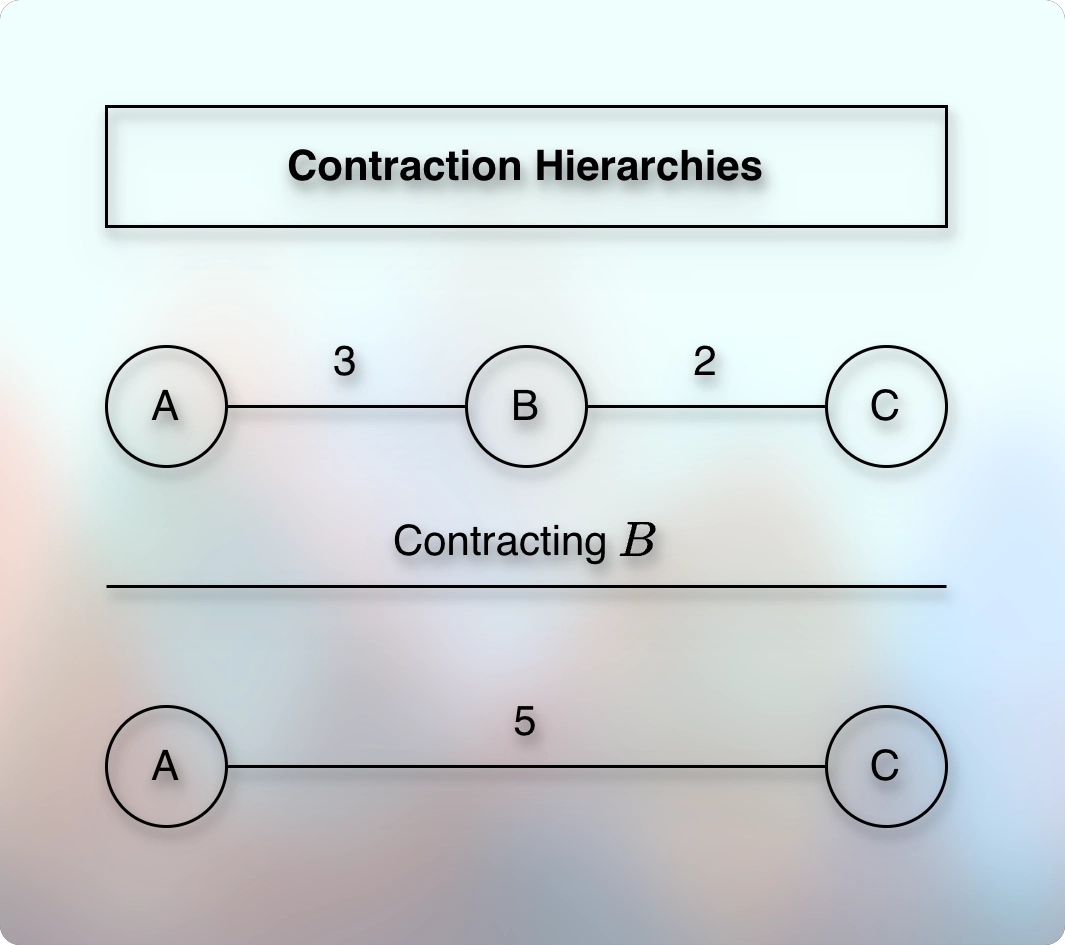
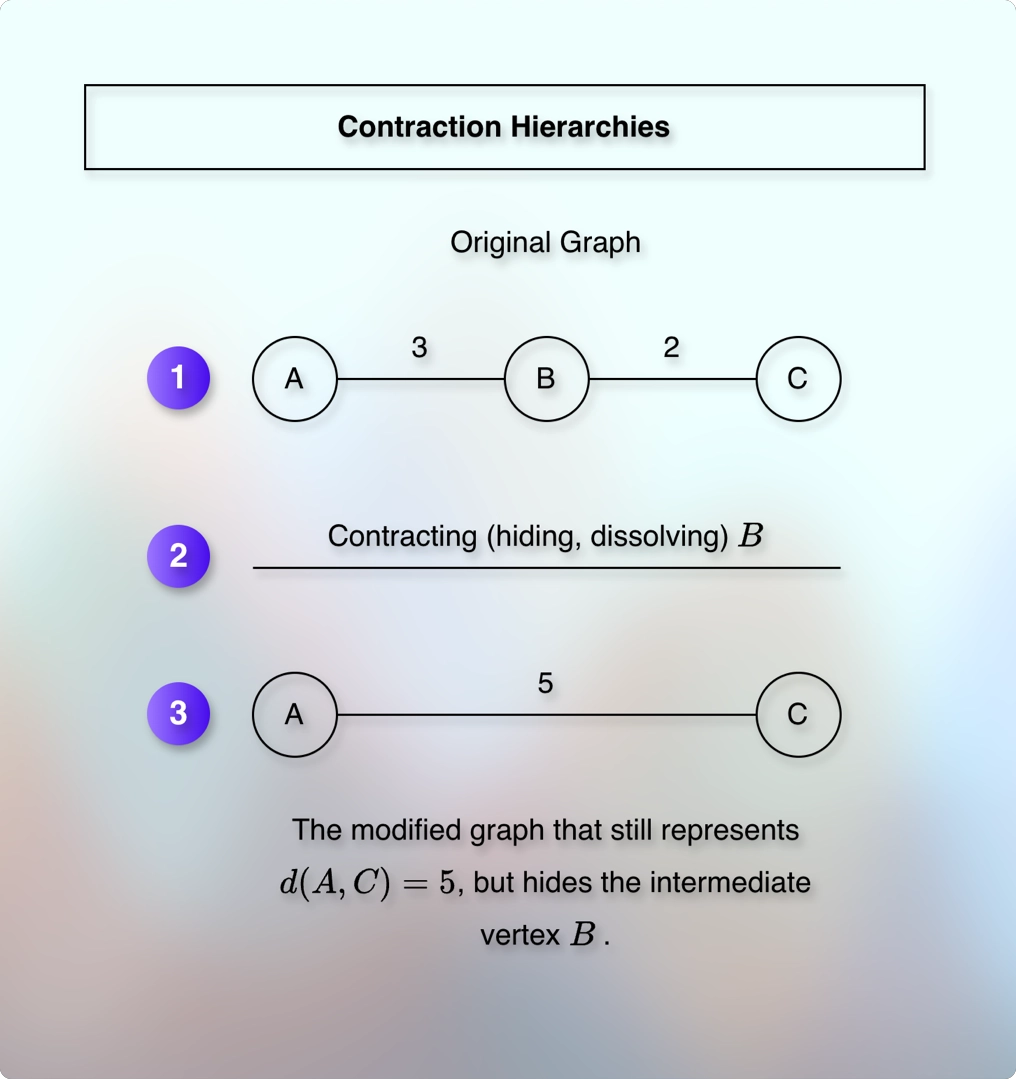
doc(WIP): Continue contraction hierarchies concept in 040contractionHierarchiesAndNodeImportance.md
Took 1 hour 13 minutes

diff --git a/docs/03graph/courses/uc/module06advancedShortestPathProject/010lectures/040contractionHierarchiesAndNodeImportance.md b/docs/03graph/courses/uc/module06advancedShortestPathProject/010lectures/040contractionHierarchiesAndNodeImportance.md
@@ -17,6 +17,9 @@
 ---
 
 * We compare contraction hierarchies with a flyover (overpass).
+
+![020highwayAnalogy.webp](../../../../../../assets/images/03graph/courses/uc/module06advancedShortestPathProject/part03ContractionHierarchies/020highwayAnalogy.webp)
+
 * What happens when we travel from our home, which is in a different state to a friend's home, which is in another state?
 * We start with the local streets, then enter into a highway, then a bigger highway, maybe an interstate highway. 
 * And as we reach closer to the friend's home, we enter into the smaller highway, and eventually, into the local streets.
@@ -52,7 +55,7 @@
 
 ---
 
-* How do we find (evaluate, calculate, determine) the importance? 
+* How do we find (evaluate, calculate, determine, define, and assign) the importance? 
 
 ---
 
@@ -84,7 +87,7 @@ $$
 * The concept we use to solve the problem is called contraction hierarchies.
 * We virtually remove intersections, obstacles, stops, etc.
 * But we preserve the path.
-* We assign a rank to each vertex.
+* We assign a rank to each vertex based on the importance.
 * We record an order in which the vertices are visited.
 * We do this for all the vertices, for the entire graph.
 * This process is called preprocessing.
@@ -93,7 +96,7 @@ $$
 
 ![010contractionHierarchies.webp](../../../../../../assets/images/03graph/courses/uc/module06advancedShortestPathProject/part03ContractionHierarchies/010contractionHierarchies.webp)
 
-* In contraction hierarchy, we contract (remove) an unimportant vertex (like vertex B in the image) and connect its neighbors directly (like A and C in the image).
+* In contraction hierarchy, we contract (hide) an unimportant vertex (like vertex B in the image) and connect its neighbors directly (like A and C in the image).
 * Here, the term hierarchy represents ranking of nodes from least important to most important.
 * The idea is:
 * Identify the least important intersections.
@@ -101,10 +104,29 @@ $$
 * For example, the vertex B in the image.
 * Do not destroy the shortest route.
 * For example, $d(A, C)$ is still $5$.
+* We do not delete or remove the vertex, $B$.
+* We just hide it.
+* The vertex $B$ is the part of the route (path) $AC$.
+* The path $AC$ goes through $B$.
+* If we remove (delete) the vertex $B$ in reality, then we break the route $AC$.
+* Also, we cannot delete a vertex arbitrarily.
+* Because for some query, $B$ can be a source, a destination, or a part of the path.
+* So, we don't delete the vertex $B$.
+* We just hide it.
+* We call it **vertex contraction** or **node contraction**.
+* After the vertex contraction, we may need to create a shortcut.
+* Creating the corresponding shortcut is a possible consequences of the vertex contraction.
+* For example, after we contract (hide) the vertex $B$, creating a shortcut that connects the vertex $A$ and $C$ is essential.
+* The shortcut must preserve the original cost.
+* For example, the shortest path $d(A, C)$ from $A$ to $C$ that goes via $B$ in the original graph costs $5$.
+* So, in the modified graph also, after contracting (hiding) $B$ and creating the shortcut (direct connection) $AC$, the shortest path $d(A, C)$ still costs $5$.
+* However, sometimes the vertex contraction does not require creating a shortcut.
 
 ---
 
 * Which vertices do we identify as intersections?
+* Based on the importance (rank).
+* How do we define and assign the importance (rank)?
 * How do we ensure that we do not destroy the shortest route?
 
 ---
@@ -135,9 +157,9 @@ $$
 ---
 
 * The goal is to prepare a preprocessed map that knows important routes (paths) vs. unimportant routes (paths).
-* How do we define important vs. unimportant paths?
-* How do we define ranks?
-* Do we define ranks based on the distance (edge weight)? How?
+* How do we define and assign important vs. unimportant paths?
+* How do we define and assign ranks?
+* Do we define and assign ranks based on the distance (edge weight)? How?
 * Does the higher edge weight get the higher rank?
 * How do we use ranks?
 * How do we treat different ranks?
@@ -151,6 +173,8 @@ $$
 * How do we hide/bypass/treat vertices or edge-weights with the lowest ranks?
 * What if a vertex is a part of the shortest path? Do we still hide it? How? Why?
 * What does it mean by building/creating a direct mathematical bridge/shortcut? How does it help? When do we do that? Why do we do that? How do we do that?
+* In which case a vertex contraction does not require creating a corresponding shortcut? Why?
+* When do we skip building/creating a shortcut? Why?
 * Suppose that the original graph has edge(A, B) with weight 3, edge(B, C) with weight 2.
 * Now, do we preprocess the graph such that it answers:
 * "The shortest path from A to C goes via B and A to C costs 5".
@@ -161,6 +185,19 @@ $$
 * Do ranks act as a guide for the search? How?
 * How does the representation of the shortest path as upward from the source and downward to the target help? Why isn't it a linear path?
 
+---
+
+* For the given contraction example of 2-6-1-4-3-5, where the edge weight is 2,3,2,1,2 respectively:
+  * Why didn't we perform contraction of `6` that could have created the direct connection (shortcut) between `2` and `5` with cost `10`?
+  * We performed the contraction of `2`, but not for `6`. Was it possible (legal) to perform the contraction of `6` before `2`? Why? 
+* Do we add the shortcut only if there is no existing direct connection (link)?
+* Do we add the shortcut if the direct connection (link) between two vertices has larger value than the alternate route via one or more vertices? 
+  * For example, suppose that `edge(u, v)` is `3`, `edge(v, w)` is `2`, and `edge(u, w)` is `8`.
+  * Here, the direct connection (link) between `u` and `w` already exists.
+  * But it is costlier than the alternate route that connects `u` and `w` via `v`.
+  * So, do we perform contraction on `v` and add a shortcut (direct link) `edge(u, w)` that costs `5`? Why?
+* Does witness path mean direct connection (link)?
+* 
 ---
 
 **Recap**
